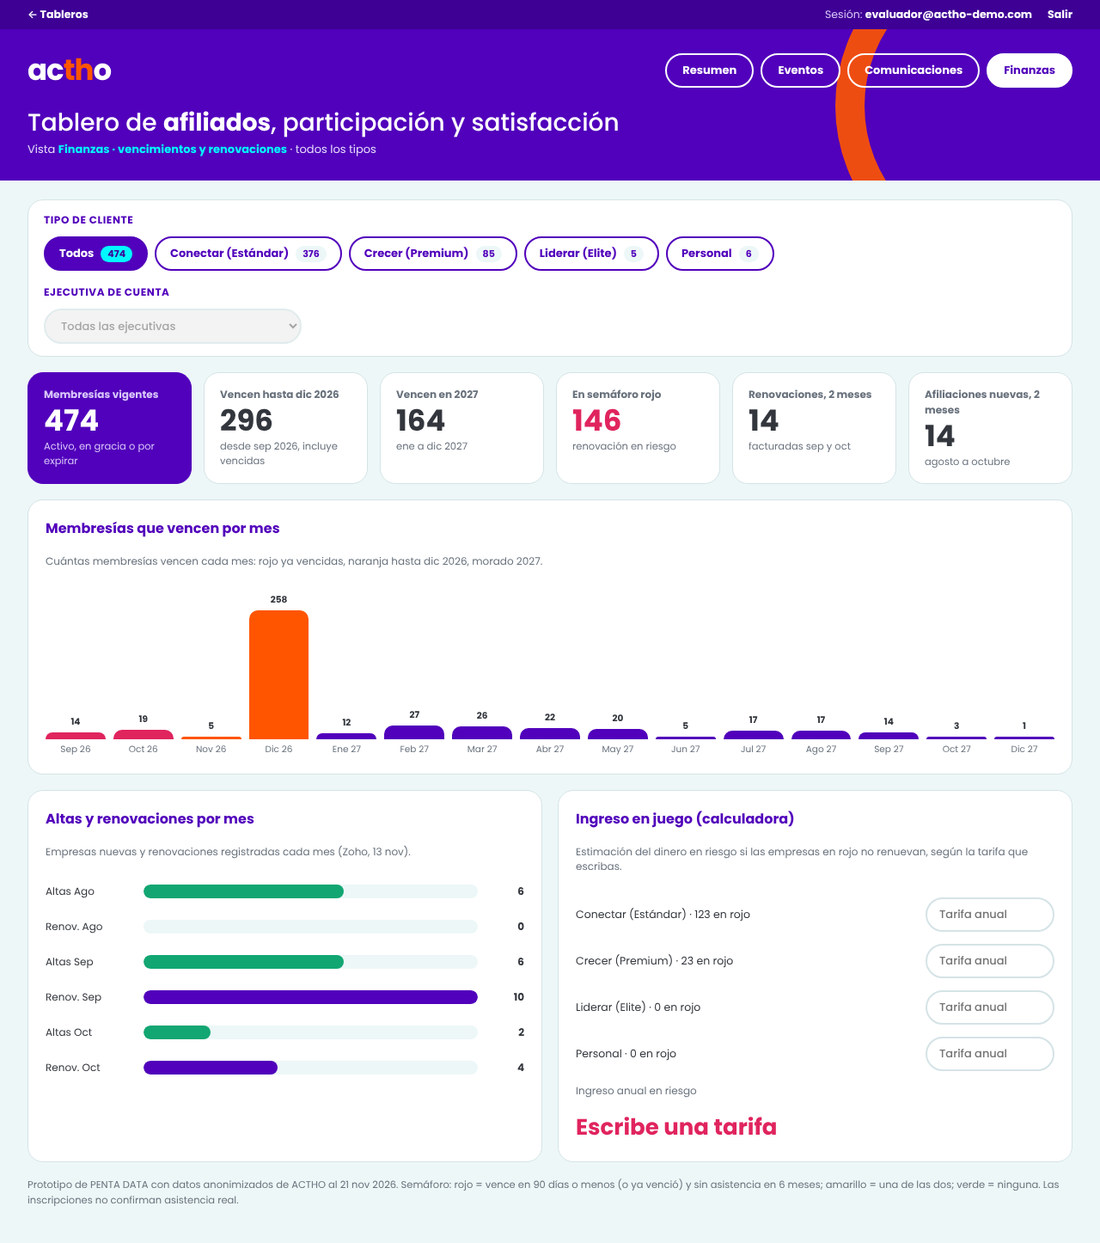
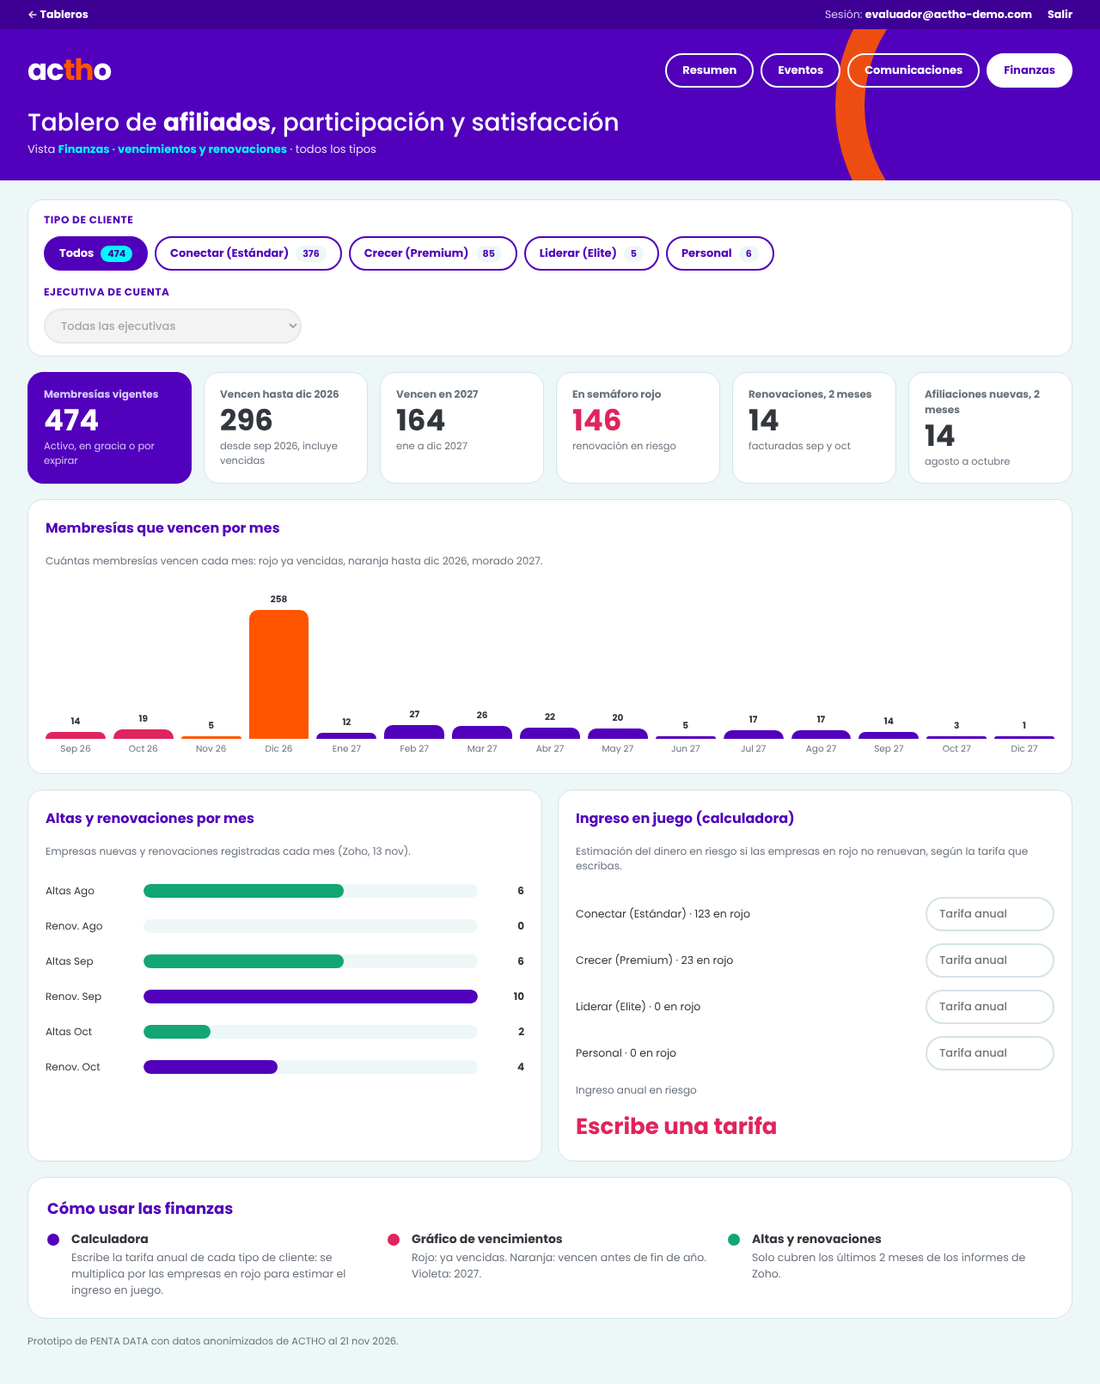
Selector sin guia del semaforo, README con capturas nuevas

diff --git a/tablero/tableros.html b/tablero/tableros.html
@@ -95,7 +95,6 @@ if(can('comunicaciones')&&X.pe)nv.push(kp(X.pe.Todos.per,'Personas \u00fanicas',
 if(can('comunicaciones')&&X.enc)nv.push(kp(Math.round(X.enc.Todos.si/X.enc.Todos.n*100),'Satisfechos','de '+X.enc.Todos.n+' respuestas','%'));
 if(can('resumen'))nv.push(kp(D.n,'Afiliados vigentes','en la cartera'));
 if(nv.length)N+=`<div class="bn"><h3>ACTHO EN CIFRAS</h3><div class="nn">${nv.join('')}</div></div>`;
-if(can('resumen'))N+=`<div class="gd"><b>C\u00f3mo leer el sem\u00e1foro</b><div class="ps"><div class="p"><i style="background:${VR}"></i><div><b>Rojo</b><span>Vence en 90 d\u00edas o menos y sin asistencia en 6 meses: contactar primero.</span></div></div><div class="p"><i style="background:${AM}"></i><div><b>Amarillo</b><span>Una sola se\u00f1al de riesgo: dar seguimiento.</span></div></div><div class="p"><i style="background:${VE}"></i><div><b>Verde</b><span>Sin se\u00f1ales de riesgo: mantener la relaci\u00f3n.</span></div></div></div></div>`;
 const at=(c,t,sb,h,d)=>`<a class="ac" href="${h}" style="animation-delay:${d}s"><i style="background:${c}">\u2192</i><span><b>${t}</b><span>${sb}</span></span></a>`;
 let Q='',q=0;const dq=()=>(.7+(q++)*.08).toFixed(2);
 if(can('resumen'))Q+=at(VR,'Empresas en rojo','Lista para contactar','tablero.html?v=dir',dq());

diff --git a/README.md b/README.md
@@ -109,9 +109,17 @@ Para generar o renovar un código, en el SQL Editor de Supabase: `select public.
 
 ![Login](docs/img/02_login.png)
 
-Después del login, el selector permite elegir uno de cuatro tableros y muestra cifras clave leídas desde la base de datos.
+Pantalla para crear cuenta con código de invitación:
+
+![Crear cuenta](docs/img/02b_registro.png)
+
+Después del login, el selector muestra un centro de alertas ("Para hoy"), una tarjeta por cada tablero con su gráfico, las cifras de ACTHO, atajos y el pie del proyecto. Todo se calcula desde la base de datos y solo aparece lo que el cargo puede ver.
 
 ![Selector de tableros](docs/img/03_selector.png)
+
+Vista de una cuenta de Contabilidad: solo ve las alertas, la tarjeta y los atajos de Finanzas.
+
+![Selector para Contabilidad](docs/img/03b_selector_contabilidad.png)
 
 ### Tablero Resumen
 
